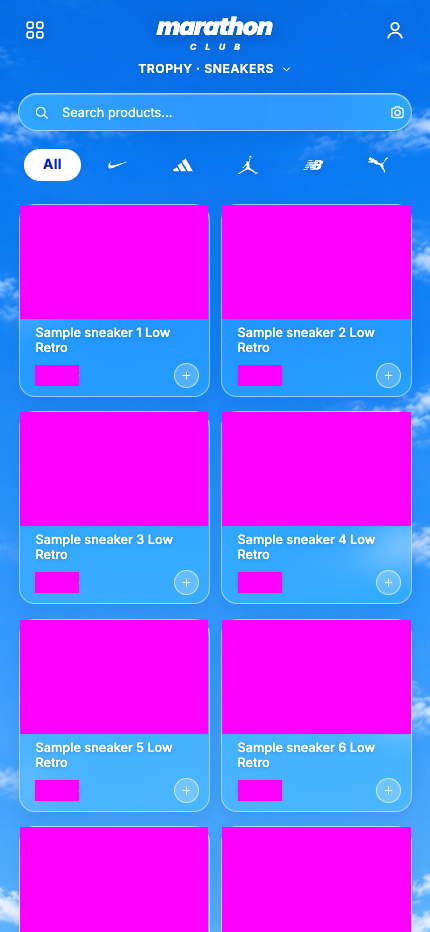
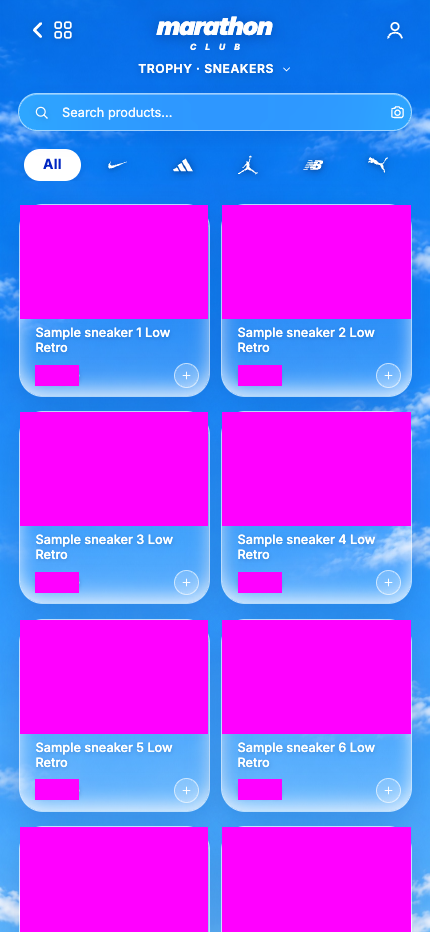
Store Assistant shoe cards wear the Home tile glass (Junid, IMG_3894): lit top hairline, clear-to-frosted gradient, bright rim, bottom inner glow, soft shadow; approved phone layout updated

diff --git a/src/components/sky/AssistantPhone.jsx b/src/components/sky/AssistantPhone.jsx
@@ -94,7 +94,7 @@ export default function AssistantPhone({
             const dead = isDead ? isDead(p) : false;
             const n = photoCount ? photoCount(p) : 0;
             return (
-              <article key={p.id} className="sky-card sky-glass ap-card" tabIndex={0}
+              <article key={p.id} className="sky-card sky-glass sky-sheen ap-card" tabIndex={0}
                        aria-current={selectedId === p.id ? "true" : undefined}
                        onClick={() => onOpen(p)} onKeyDown={(e) => { if (e.key === "Enter" && e.target === e.currentTarget) onOpen(p); }}>
                 {/* The photo (or its 👟 stand-in) is a picture, not text. */}
@@ -184,8 +184,14 @@ html[data-sky="on"] #root .ap-root .sky-brandchip--all{font:700 13.9px/1 var(--s
 .ap-grid{display:grid;grid-template-columns:repeat(2,minmax(0,1fr));gap:14px 12px;padding:12px 18.5px 0}
 @media (min-width:600px){.ap-grid{grid-template-columns:repeat(3,minmax(0,1fr))}}
 @media (min-width:820px){.ap-grid{grid-template-columns:repeat(4,minmax(0,1fr))}}
-html[data-sky="on"] #root .ap-root .ap-card{display:flex;flex-direction:column;border-radius:16px;color:#fff;background:rgba(255,255,255,.14)!important;border:1px solid rgba(255,255,255,.5)!important;
-  box-shadow:inset 0 1px 0 rgba(255,255,255,.35),0 8px 22px rgba(0,40,120,.12)!important;-webkit-backdrop-filter:blur(16px) saturate(1.3);backdrop-filter:blur(16px) saturate(1.3)}
+/* Product cards wear the Home tile's glass (Junid, 7 Nov — IMG_3894): lit top
+   hairline (sky-sheen), clear-to-frosted gradient, bright rim, inner glow
+   rising from the bottom edge, soft blue drop shadow. */
+html[data-sky="on"] #root .ap-root .ap-card{position:relative;display:flex;flex-direction:column;border-radius:24px;color:#fff;
+  background:linear-gradient(180deg,rgba(255,255,255,.07),rgba(255,255,255,.12) 70%,rgba(255,255,255,.2))!important;
+  border:1.5px solid rgba(255,255,255,.62)!important;
+  box-shadow:inset 0 0 16px 1px rgba(255,255,255,.42),inset 0 -16px 22px -10px rgba(255,255,255,.7),var(--sky-shadow)!important;
+  -webkit-backdrop-filter:blur(10px) saturate(130%);backdrop-filter:blur(10px) saturate(130%)}
 .ap-card[aria-current="true"]{outline:2px solid #fff;outline-offset:-1px}
 .ap-root .ap-card .sky-stage{height:114px!important;padding:0;flex:0 0 auto}
 .ap-root .ap-card .sky-frame{inset:13px 0 0;background:none;border-radius:0;align-items:flex-start}
